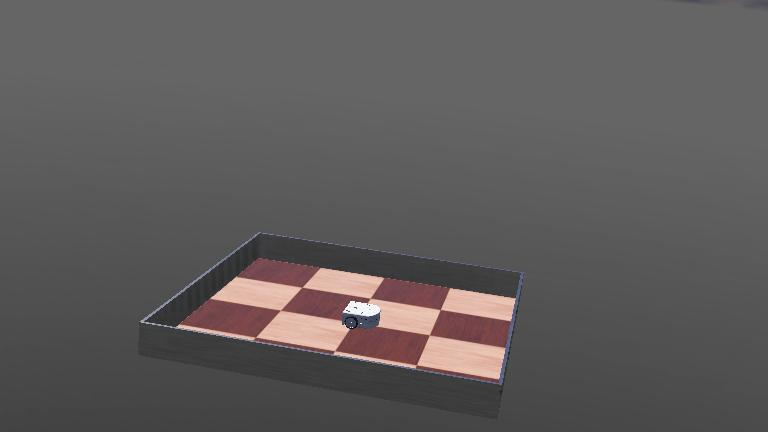
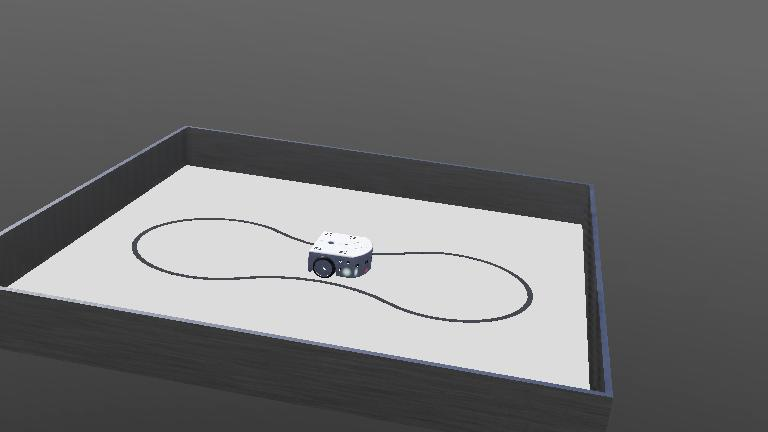
updated track world

diff --git a/Track/controllers/thymeo_suivi_ligne/thymeo_suivi_ligne.py b/Track/controllers/thymeo_suivi_ligne/thymeo_suivi_ligne.py
@@ -1,0 +1,44 @@
+"""thymeo_suivi_ligne controller."""
+
+from controller import Robot
+
+robot = Robot()
+timestep = int(robot.getBasicTimeStep())
+
+left_sensor = robot.getDevice('prox.ground.0')
+right_sensor = robot.getDevice('prox.ground.1')
+left_sensor.enable(timestep)
+right_sensor.enable(timestep)
+
+left_motor = robot.getDevice('left wheel motor')
+right_motor = robot.getDevice('right wheel motor')
+left_motor.setPosition(float('inf'))
+right_motor.setPosition(float('inf'))
+left_motor.setVelocity(0.0)
+right_motor.setVelocity(0.0)
+
+max_speed = 6.0
+turn_speed = 3.0
+
+while robot.step(timestep) != -1:
+    left_val = left_sensor.getValue()
+    right_val = right_sensor.getValue()
+
+    print(f"[DEBUG] Left sensor: {left_val:.2f}, Right sensor: {right_val:.2f}")
+
+    if left_val < 500 and right_val < 500:
+        print("Status: On line, move forward")
+        left_motor.setVelocity(max_speed)
+        right_motor.setVelocity(max_speed)
+    elif left_val < 500:
+        print("Status: Line detected on left, turn left")
+        left_motor.setVelocity(turn_speed)
+        right_motor.setVelocity(max_speed)
+    elif right_val < 500:
+        print("Status: Line detected on right, turn right")
+        left_motor.setVelocity(max_speed)
+        right_motor.setVelocity(turn_speed)
+    else:
+        print("Status: Line lost, searching")
+        left_motor.setVelocity(turn_speed)
+        right_motor.setVelocity(-turn_speed)
